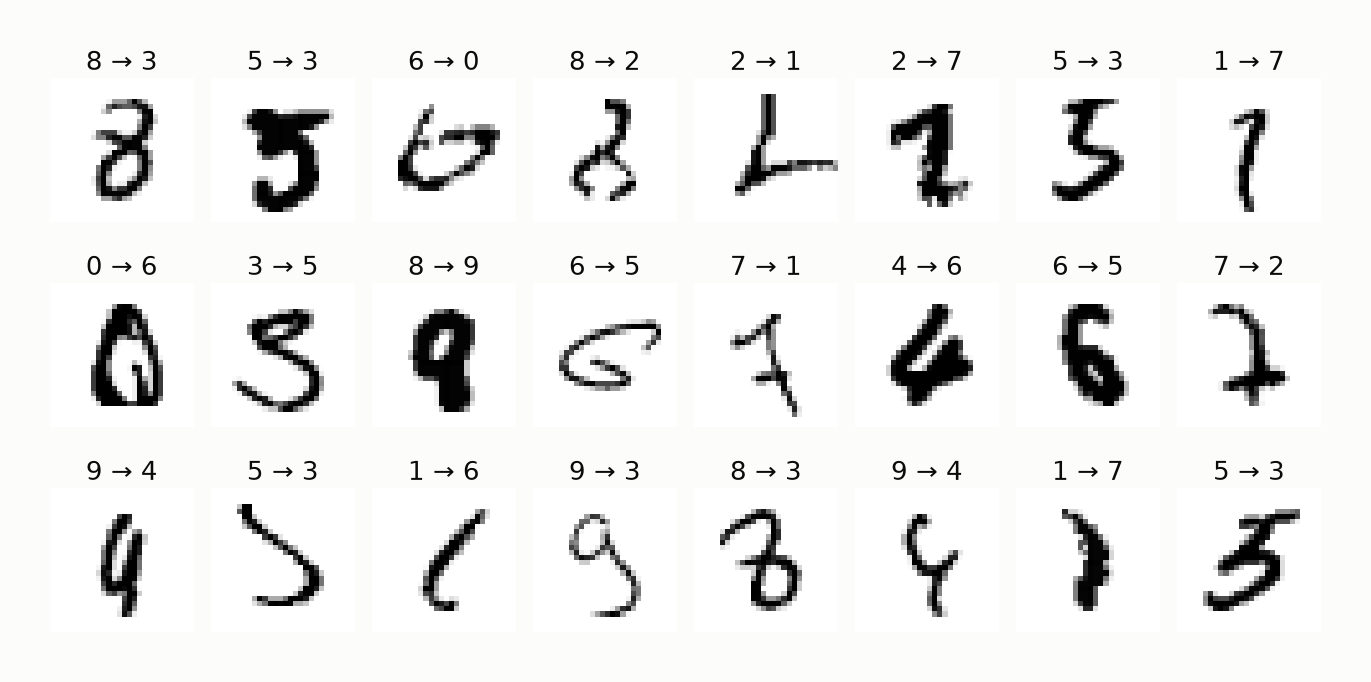
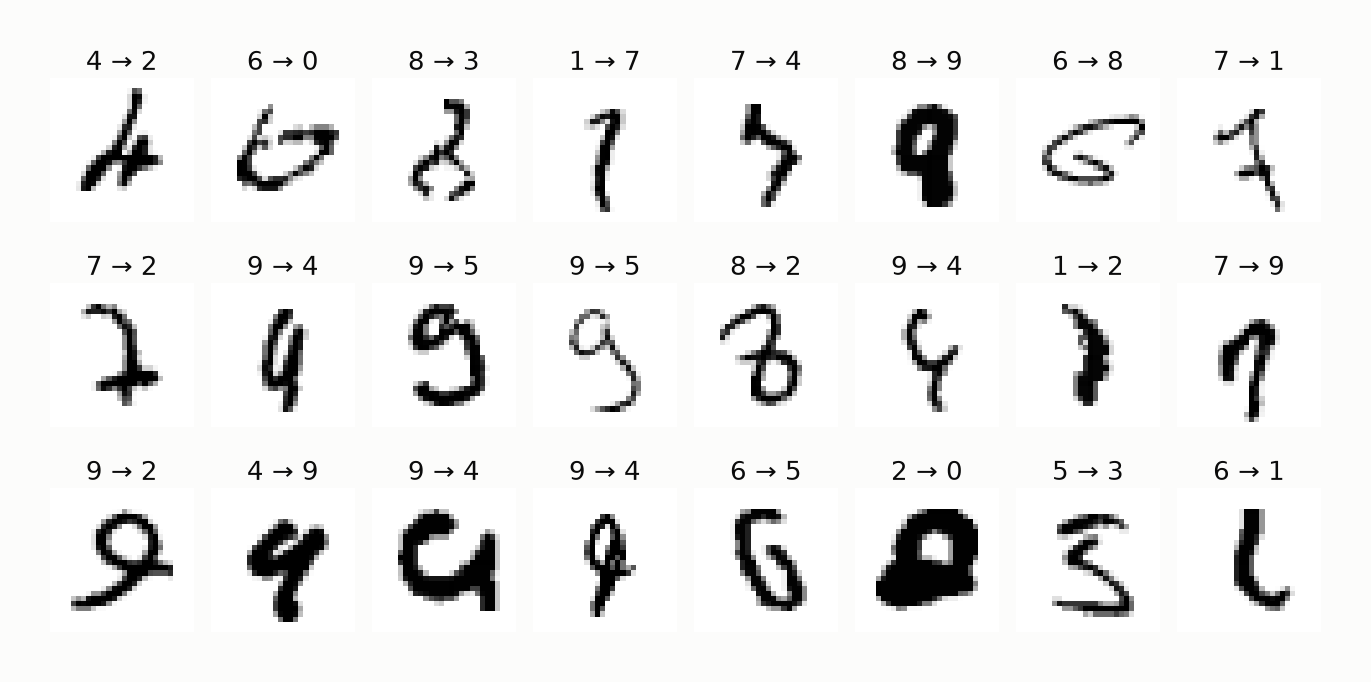
Report the character recognition CNN's reference model: 99.41%.

diff --git a/examples/character_recognition/README.md b/examples/character_recognition/README.md
@@ -2,7 +2,7 @@
   <img src="figures/banner.svg" alt="Character Recognition: reading handwritten digits on a microcontroller, and measuring what convolution buys over a plain network." width="100%">
 </p>
 
-> **Abstract.** Turning a small handwritten image into a digit is the "hello world" of embedded vision, and the same model shape reads handwritten amounts, form fields and dials on devices with no network connection. This example trains two networks on the same MNIST digits — a convolutional network (CNN) and a plain fully-connected one — and evaluates both with the same test program on MNIST's standard 10,000-digit test set, written by different people than the training digits, so what the convolution layers buy is measured rather than assumed. Over five training runs each, the CNN scores 99.29–99.42% (median 99.39%) and the fully-connected network 98.66–98.81% (median 98.71%): about half the mistakes, with about the same number of parameters (100K and 109K) but eight times the arithmetic per digit for the CNN. Quantized to 8-bit integers, neither loses measurable accuracy, and the CNN fits in 99 KB of flash. The library behind it has run this task live on an STM32H7 microcontroller.
+> **Abstract.** Turning a small handwritten image into a digit is the "hello world" of embedded vision, and the same model shape reads handwritten amounts, form fields and dials on devices with no network connection. This example trains two networks on the same MNIST digits — a convolutional network (CNN) and a plain fully-connected one — and evaluates both with the same test program on MNIST's standard 10,000-digit test set, written by different people than the training digits, so what the convolution layers buy is measured rather than assumed. The reference CNN scores 99.41% (six training runs: 99.29–99.42%, median 99.39%) and the fully-connected network 98.71% (five runs: 98.66–98.81%): about half the mistakes, with about the same number of parameters (100K and 109K) but eight times the arithmetic per digit for the CNN. Quantized to 8-bit integers, neither loses measurable accuracy, and the CNN fits in 99 KB of flash. The library behind it has run this task live on an STM32H7 microcontroller.
 
 | | |
 |---|---|
@@ -10,7 +10,7 @@
 | **Data** | MNIST: 60,000 training digits (54,000 to train, 6,000 to validate) and its standard 10,000-digit test set; 8-bit grayscale scaled to 0–1 |
 | **Model** | CNN: 2 × (5 × 5 conv + GELU + 2 × 2 max pool) → FC 120 → FC 20 → softmax 10 (100,254 parameters). Baseline: FC 128 → FC 64 → softmax 10 (109,386) |
 | **Hardware** | STM32H7 microcontroller (the library's own demonstration); 101,628 bytes of flash for the int8 CNN |
-| **Result** | Test accuracy, five runs each: CNN 99.29–99.42% (median 99.39%), fully connected 98.66–98.81% (median 98.71%) |
+| **Result** | Test accuracy: CNN 99.41% (reference model; six runs 99.29–99.42%, median 99.39%), fully connected 98.71% (median of five runs, 98.66–98.81%) |
 
 ## 1. The problem
 
@@ -94,16 +94,16 @@ Both programs train the same way:
 
 ## 5. Results
 
-Five runs of each program, each scored on the same 10,000 test digits. Random initialization and shuffling make every run a little different.
+Six runs of the CNN and five of the fully-connected network, each scored on the same 10,000 test digits. Random initialization and shuffling make every run a little different. The rest of this document uses one *reference model* of each: for the CNN the sixth run, for the fully-connected network its median run.
 
-| | Parameters | Multiply-adds per digit | Test accuracy, five runs | Median | Mistakes, median run | Training time per epoch |
+| | Parameters | Multiply-adds per digit | Test accuracy, all runs | Median | Reference model (mistakes) | Training time per epoch |
 |---|---|---|---|---|---|---|
-| `train_cnn` | 100,254 | ~880K | 99.29–99.42% | **99.39%** | 61 | 48 s |
-| `train_fc` | 109,386 | ~109K | 98.66–98.81% | 98.71% | 129 | 1.3 s |
+| `train_cnn` | 100,254 | ~880K | 99.29–99.42% (6 runs) | 99.39% | **99.41%** (59) | 48 s |
+| `train_fc` | 109,386 | ~109K | 98.66–98.81% (5 runs) | 98.71% | 98.71% (129) | 1.3 s |
 
-Training times are single-threaded on the desktop used for this document. Runs stop after 13–34 epochs, so a CNN run takes 10–30 minutes and a fully-connected one under a minute.
+Training times are single-threaded on the desktop used for this document. The timed runs stopped after 13–34 epochs, so a CNN run takes 10–30 minutes and a fully-connected one under a minute.
 
-**What convolution buys.** With slightly fewer parameters, the CNN makes about half the mistakes on digits from writers it never saw: 61 against 129 in the median runs. It also stands up to the published record: LeNet-5, the convolutional network MNIST was introduced with, scored 99.05% on this same test set [1].
+**What convolution buys.** With slightly fewer parameters, the CNN makes about half the mistakes on digits from writers it never saw: 59 against 129 for the two reference models (61 for the CNN's median run). It also stands up to the published record: LeNet-5, the convolutional network MNIST was introduced with, scored 99.05% on this same test set [1].
 
 **What it costs.** The arithmetic: about eight times as many multiply-adds per digit, and an epoch of training about 38 times longer. For a device reading one digit at a time that is still only milliseconds of work (see section 6), but it's the trade the CNN makes: computation for accuracy, with about the same number of weights. Its working buffers do need more RAM: about 32 KiB, against under 2 KiB (section 6).
 
@@ -115,31 +115,31 @@ Training times are single-threaded on the desktop used for this document. Runs s
 | Grayscale pixels, MNIST's own test set, scored by most probable class (five runs) | 98.71–98.96% | 97.47–97.96% |
 | + GELU on the convolutions, which had been linear (three runs) | 98.97–99.25% | — |
 | + random shifts of up to 2 pixels (three runs) | 99.11–99.26% | 98.08–98.35% |
-| + learning rate × 0.9 per epoch: this example's code (five runs) | **99.29–99.42%** | **98.66–98.81%** |
+| + learning rate × 0.9 per epoch: this example's code (six CNN runs, five fully connected) | **99.29–99.42%** | **98.66–98.81%** |
 
 Adam was also tried in place of plain SGD. With one digit per update it scored lower, with and without the shifts (98.75–99.17%, three runs each): its per-weight step sizes chase noise. Averaging 32 digits per update with `nn_set_batch_size()` fixes that, and it then matches SGD rather than beating it: 99.33–99.45%, median 99.40%, over five runs (learning rate 0.001, decaying by 0.9 per epoch). For the fully-connected network, Adam with 64 digits per update scored 98.60–98.81%, median 98.66%. Both networks stay on SGD here, which reaches the same accuracy without Adam's two extra floats per weight.
 
 <p align="center">
   <img src="figures/training.svg" alt="Training and validation cross-entropy per epoch for one run of each network. CNN: validation error falls to its best, 0.023, at epoch 10, below training error until the last epoch. Fully connected: validation error falls more slowly to its best, 0.042, at epoch 26, below training error until the last three epochs." width="900">
 </p>
-<p align="center"><sub><b>Figure 5.</b> Training curves for the median run of each network. The dot marks the epoch whose model was saved (lowest validation error); training stopped five epochs later.</sub></p>
+<p align="center"><sub><b>Figure 5.</b> Training curves for the median run of each network (the CNN reference model's training log wasn't kept). The dot marks the epoch whose model was saved (lowest validation error); training stopped five epochs later.</sub></p>
 
 Validation error stays below training error for both networks until the last few epochs, the reverse of the usual overfitting picture. Training digits are shifted at random and the CNN's dropout is active during training, so the training set is the harder of the two. Neither network memorizes its training digits the way the earlier, unshifted fully-connected network did.
 
 <p align="center">
-  <img src="figures/confusion.svg" alt="Confusion matrix of the median CNN run on 10,000 test digits; diagonal counts between 884 and 1,127; the largest off-diagonal counts are 5 read as 3 (6 times), 9 read as 4 (5), and 6 read as 5 and 2 read as 7 (4 each)." width="560">
+  <img src="figures/confusion.svg" alt="Confusion matrix of the reference CNN on 10,000 test digits; diagonal counts between 887 and 1,130; the largest off-diagonal counts are 9 read as 4 (7 times), 7 read as 2 (5), and 9 read as 5 and 6 read as 8 (4 each)." width="560">
 </p>
-<p align="center"><sub><b>Figure 6.</b> The median CNN run's test-set confusion matrix (9,939 of 10,000 correct, 99.39%). Diagonal: correct; red cells: mistakes, darker for more.</sub></p>
+<p align="center"><sub><b>Figure 6.</b> The reference CNN's test-set confusion matrix (9,941 of 10,000 correct, 99.41%). Diagonal: correct; red cells: mistakes, darker for more.</sub></p>
 
 <p align="center">
   <img src="figures/mistakes.png" alt="Twenty-four misclassified test digits, each labeled with its true and predicted class; many are ambiguous or unusually written." width="760">
 </p>
 <p align="center"><sub><b>Figure 7.</b> The first 24 test digits the CNN gets wrong, labeled true → predicted. Many are hard for a person too.</sub></p>
 
-The mistakes that remain are the familiar MNIST ones: 5s whose upright stroke is short or missing become 3s, 9s with an open loop become 4s, and 8s left open on one side become 3s. Digit 9 has the lowest per-class accuracy (98.8%), then 5 and 6 (99.1%); 3 and 4 have the highest (99.9% and 99.8%).
+The mistakes that remain are the familiar MNIST ones. 9s are the hardest, read as 4s (7 times) or 5s (4), mostly where the loop is open or squashed. 7s become 2s (5), like the crossbarred one in Figure 7, and 6s become 8s (4). Digit 9 has the lowest per-class accuracy (98.6%), then 6 and 7 (99.0%); 0 and 2 have the highest (99.8%).
 
 <p align="center">
-  <img src="figures/predict.svg" alt="predict.c's built-in 28 by 28 sample, a blocky 8, beside the CNN's softmax output: 0.9999 for 8 and under 0.0001 for every other digit." width="760">
+  <img src="figures/predict.svg" alt="predict.c's built-in 28 by 28 sample, a blocky 8, beside the CNN's softmax output: 0.9995 for 8, 0.0005 for 5, and under 0.0001 for every other digit." width="760">
 </p>
 <p align="center"><sub><b>Figure 8.</b> <code>predict</code> on its built-in sample: the input, and the CNN's probability for each digit.</sub></p>
 
@@ -152,7 +152,7 @@ The mistakes that remain are the familiar MNIST ones: 5s whose upright stroke is
 | **Flash**, int8, `export --inplace` | 101,628 bytes | 110,272 bytes |
 | **RAM**, model loaded with `nn_load_model_inplace()` | ~32 KiB | ~1.7 KiB |
 | **Compute** per digit | ~880,000 multiply-adds | ~109,000 multiply-adds |
-| Accuracy cost of int8 (median run) | none: 99.39% → 99.40% | 98.71% → 98.67% |
+| Accuracy cost of int8 (reference models) | none: 99.41% → 99.41% | 98.71% → 98.67% |
 
 To build the flash-resident int8 model:
 
@@ -191,9 +191,9 @@ The figures in this document are generated by `tools/docs/character_recognition.
 
 ## Appendix B. Program output
 
-From the median run of each network in section 5.
+The training log is the CNN's median run (the reference model's wasn't kept); the `test` and `predict` output is the reference model's.
 
-Training log (`train_cnn`):
+Training log (`train_cnn`, median run):
 ```
 Creating new model.
 train error, validation error, learning rate
@@ -220,8 +220,8 @@ Training epochs: 15
 
 `test model_cnn.txt`:
 ```
-Train: 53740/54000 = 99.52%
-Test : 9939/10000 = 99.39%
+Train: 53838/54000 = 99.70%
+Test : 9941/10000 = 99.41%
 ```
 
 `predict model_cnn.txt` (per-class probability for the built-in sample):
@@ -229,12 +229,12 @@ Test : 9939/10000 = 99.39%
 0: 0.00000
 1: 0.00000
 2: 0.00000
-3: 0.00000
+3: 0.00006
 4: 0.00000
-5: 0.00009
+5: 0.00048
 6: 0.00000
 7: 0.00000
-8: 0.99990
+8: 0.99947
 9: 0.00000
 ```
 

diff --git a/examples/README.md b/examples/README.md
@@ -21,7 +21,7 @@ Read in order, they also tell a story. Each example needs a little more memory, 
 
 <a href="character_recognition/README.md"><img src="character_recognition/figures/banner.svg" alt="Example 01, Character Recognition" width="100%"></a>
 
-Recognizes handwritten digits (MNIST), the "hello world" of embedded vision and the network behind this library's own STM32H7 hardware demo. It trains a convolutional network and a plain fully-connected one on the same data and scores both with the same test program, so what convolution buys is measured rather than assumed: **99.39% against 98.71%** (median of five runs each) on MNIST's standard 10,000-digit test set, with about the same number of parameters.
+Recognizes handwritten digits (MNIST), the "hello world" of embedded vision and the network behind this library's own STM32H7 hardware demo. It trains a convolutional network and a plain fully-connected one on the same data and scores both with the same test program, so what convolution buys is measured rather than assumed: **99.41% against 98.71%** (the reference model of each; the CNN's six runs scored 99.29–99.42%) on MNIST's standard 10,000-digit test set, with about the same number of parameters.
 
 <a href="gesture_recognition/README.md"><img src="gesture_recognition/figures/banner.svg" alt="Example 02, Gesture Recognition" width="100%"></a>
 
